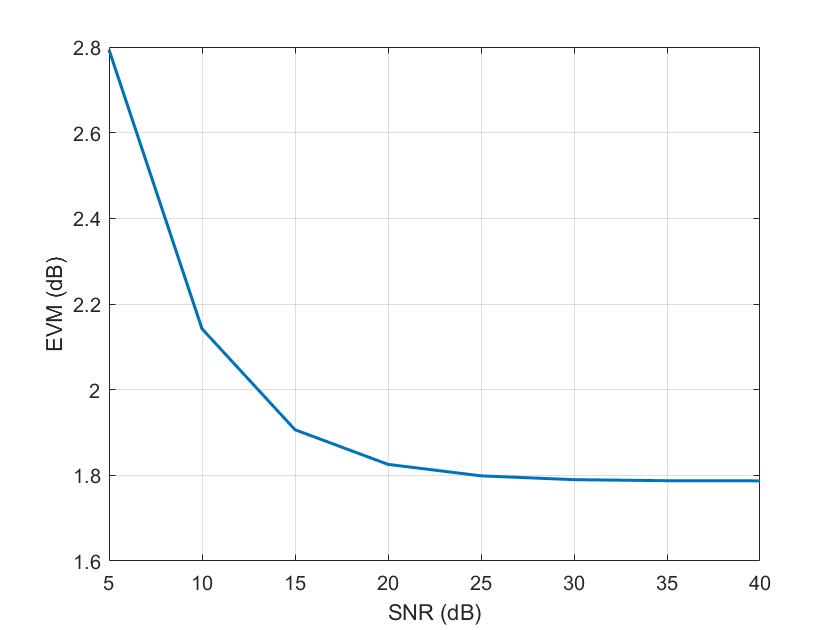
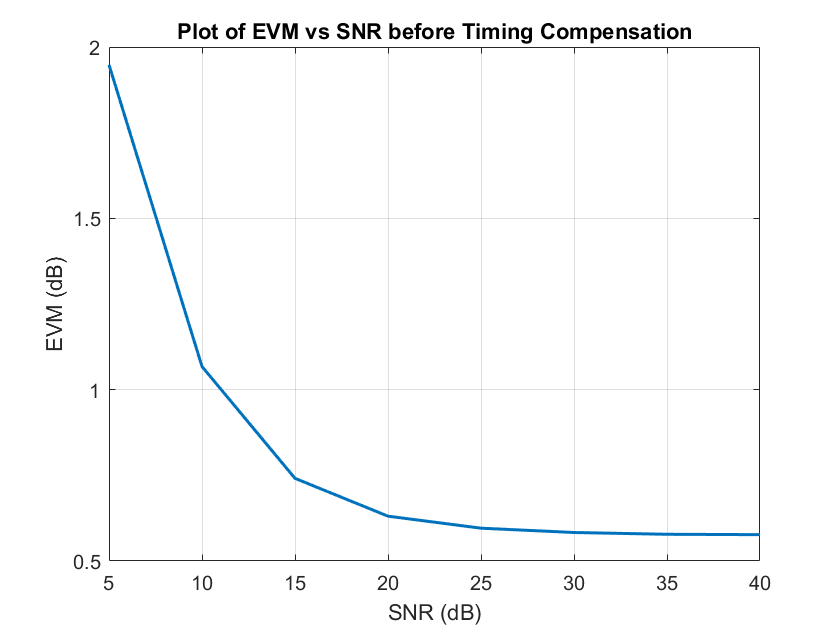
Finishing section 3.3

diff --git a/5/lab_report.tex b/5/lab_report.tex
@@ -417,9 +417,9 @@ We can quantify how closely our constellation matches the desired constellation 
 	\label{fig::evm_vs_snr}
 \end{figure}
 
-Comparing the plots, we see that the EVM is substantially lower after timing compensation. This is consistent with out qualitative analysis of the constellation. Additionally, we find that the EVM falls with SNR. This is also an expected result because the spread of the constellation points reduces as the SNR increases. Additionally, for low SNRs, we see that the EVM after timing compensation is approximately the -SNR. This phenomenon occurs because the constellation error at low SNRs is dominated by the noise. As the SNR increases, our EVM with timing compensation converges to about -16 dB. In this simulation, the minimum EVM is primarily limited by the drift of our timing offset.
+Comparing the plots, we see that the EVM is substantially lower after timing compensation. This is consistent with our qualitative constellation analysis. Additionally, we find that the EVM falls with SNR. This is also an expected result because the spread of the constellation points reduces as the SNR increases. Additionally, for low SNRs, we see that the EVM after timing compensation is approximately -SNR. This phenomenon occurs because the constellation error at low SNRs is dominated by the noise. As the SNR increases, our EVM with timing compensation converges to about -28 dB. In this simulation, the minimum EVM is primarily limited by the drift of our timing offset and imperfections in the system, such as the truncated Nyquist filter impulse response.
 
-	We can perform similar analysis after adding a phase offset of $\pi/8$ radians. The EVMs before and after timing compensation are included in Figures \ref{fig::evm_vs_snr_with_phase_offset} and \ref{fig::evm_vs_snr_with_phase_offset} respectively.
+	We can perform similar analysis after adding a phase offset of $\pi/8$ radians. The EVMs before and after timing compensation are included in Figures \ref{fig::evm_vs_snr_with_phase_offset_no_comp} and \ref{fig::evm_vs_snr_with_phase_offset} respectively.
 
 \begin{figure}[H]
 	\centerline{\fbox{\includegraphics[width=0.5\textwidth]{evm_vs_snr_with_phase_offset_no_comp.png}}}
@@ -433,7 +433,7 @@ Comparing the plots, we see that the EVM is substantially lower after timing com
 	\label{fig::evm_vs_snr_with_phase_offset}
 \end{figure}
 
-\noindent Comparing both of our Figures, we see that the EVM of the constellation prior to timing compensation is worse than the EVM after timing compensation. Additionally, compared to our results without a phase offset, we see that our EVM has increased. For the constellation with timing correction, our EVM is almost 10 dB worse in steady state. Our minimum EVM is now limited by the phase offset. With perfect timing compensation and no noise our minimum error with a $\pi/8$ phase offset is limited to
+\noindent Comparing both of our Figures, we see that the EVM of the constellation prior to timing compensation is worse than the EVM after timing compensation. Additionally, compared to our results without a phase offset, we see that our EVM has increased. For the constellation with timing correction, our EVM is almost 20 dB worse in steady state. Our minimum EVM is now limited by the phase offset. With perfect timing compensation and no noise our minimum error with a $\pi/8$ phase offset is limited to
 
 \begin{equation}
 	\text{error} = (1 - \cos\pi/8)^2 + \sin^2\pi/8 = 1 - 2\cos\pi/8 + \cos^2\pi/8 + \sin^2\pi/8 = 2 - 2\cos\pi/8 \approx 0.15224 
@@ -474,7 +474,7 @@ Comparing the plots, we see that the EVM is substantially lower after timing com
 	\label{fig::evm_vs_snr_dbpsk}
 \end{figure}
 
-Compared to our results with BPSK modulation, we see that the EVM with timing compensation has substantially improved, getting close to the no phase offset case. At low SNRs, the EVM is slightly worse because we use noisy samples in our differential demodulation.
+\noindent Compared to our results with BPSK modulation, we see that the EVM with timing compensation has substantially improved, getting close to the no phase offset case. At low SNRs, the EVM is slightly worse because we use noisy samples in our differential demodulation.
 
 \subsection{Adding Pieces Together}
 \label{section::adding_pieces_together}

diff --git a/5/code/simTimingSync.m b/5/code/simTimingSync.m
@@ -15,12 +15,12 @@ filterSymbolSpan = 10;
 snr_dB = 5:5:40;
 delay = 0;
 delayDrift = 0.01;
-phaseOffset = 0;
+phaseOffset = pi/8;
 %% Simulation Flags
 showConstellations = false;
 debugControlSystem = false;
 useIdealRef = true;
-useDspkMod = false;
+useDspkMod = true;
 useBuiltInSync = true;
 %% Select Symbol Synchronizer
 if useBuiltInSync
